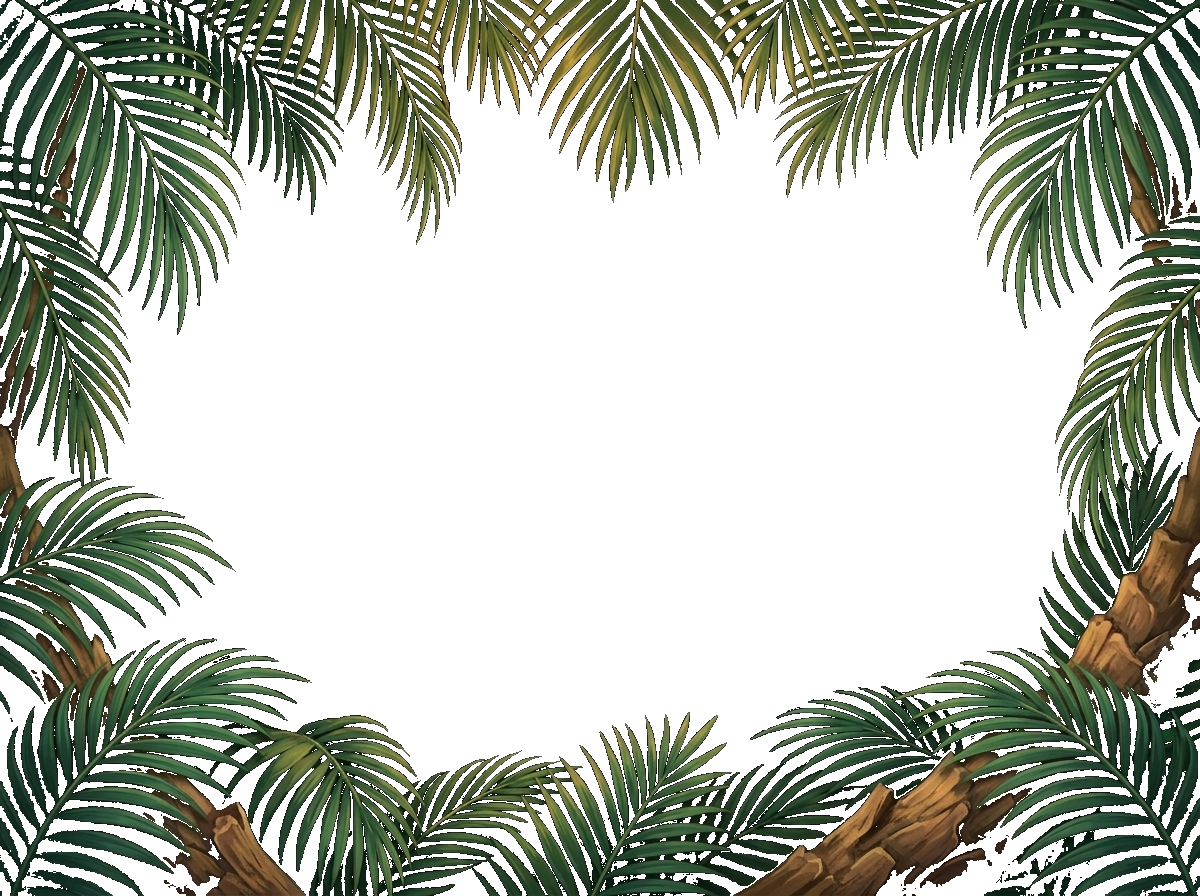
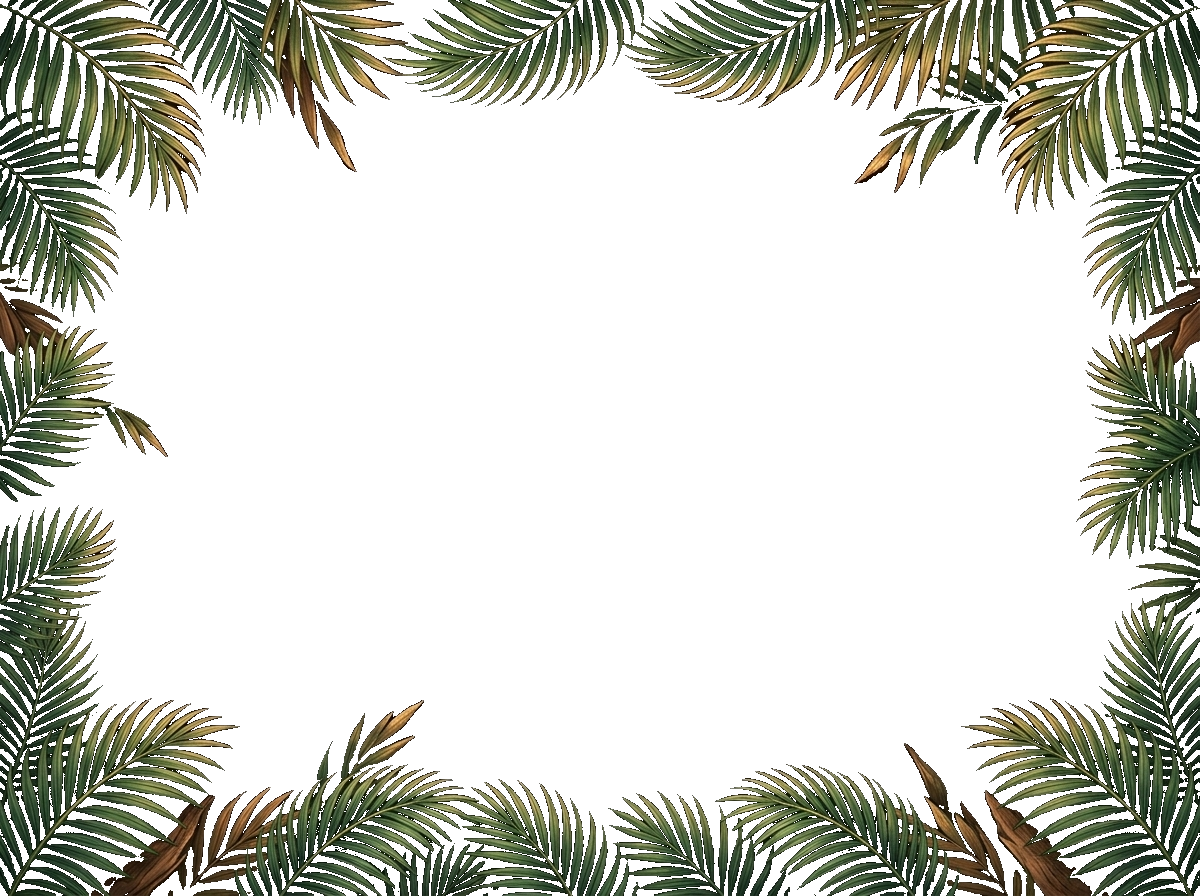
globe: slimmer palm-leaf frame v2 (no brown atmospheric blob)
Regenerated the universal palm-frame.png with stricter prompts:
- Tighter foliage band (outer ~4-5% only, not 10%)
- Refined "deco border" composition instead of "dense canopy"
- Explicit "NO atmospheric haze / glow / parchment texture in the
  center" instruction — kills the brown blob the previous gen had
- HD detail emphasis: crisp leaf outlines, visible leaflets,
  fine highlights, no jaggies

Now 71% transparent (vs. 60% before). The map underneath shows
through cleanly. Eddie's reported issue of palm bark covering
Matadi/Boma in Kongo Central should be gone.

Cache-bust the CSS URL with ?v=2 so visitors whose browsers cached
the previous 1.8 MB lush version fetch the new 1.3 MB slim version
immediately.

diff --git a/pages/globe.html b/pages/globe.html
@@ -810,7 +810,7 @@
       content: "";
       position: absolute;
       inset: 0;
-      background-image: url("../assets/images/palm-frame.png");
+      background-image: url("../assets/images/palm-frame.png?v=2");
       background-size: 100% 100%;
       background-repeat: no-repeat;
       pointer-events: none;
